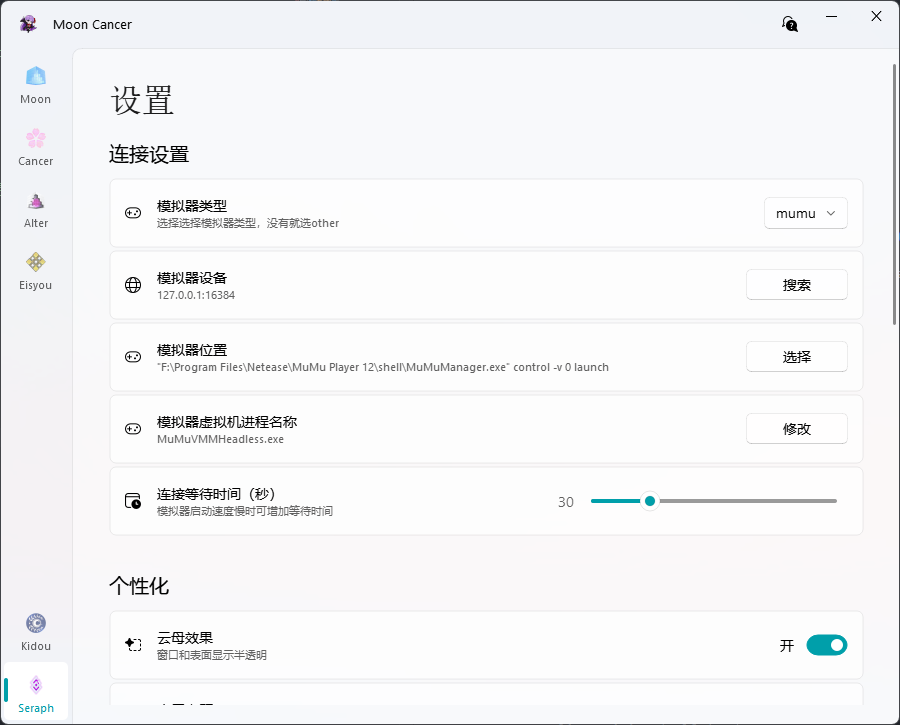
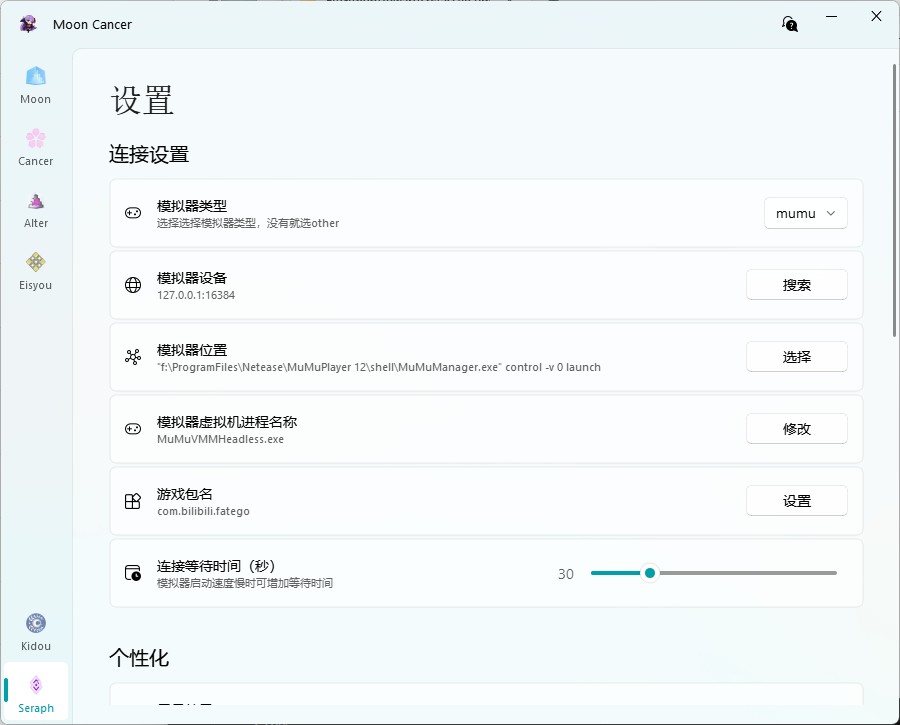
v2.2.2

diff --git a/src/content/posts/MoonCancer0.md b/src/content/posts/MoonCancer0.md
@@ -62,6 +62,8 @@ draft: false
 这里简单说一下怎么找到自己模拟器的虚拟机名称，打开模拟器，再打开任务管理，在进程里找到占用最高的模拟器相关进程(这里以mumu为例)，右键打开文件所在的位置，就可以直到程序，复制名称就行了，要包括.exe。
 或者直接问AI一般也能得到一个比较准确的答案，可以参考着找一下，就问 **XX模拟器的虚拟机进程名称是什么**
 ![taskmanager](../../assets/images/mooncaner/taskmanager.png)
+- 游戏包名默认是B服，其他客户端要修改，设置好连接参数后，打开模拟器后能自动搜索，搜索失败就自己填了
+- 连接等待时间，如果自动启动模拟器时，模拟器启动时间过长导致没连上，可以增加等待时间
 - 剩下的设置没啥好讲的了，自己看着选
 
 ## 游戏内设置

diff --git a/src/content/posts/MoonCancer1.md b/src/content/posts/MoonCancer1.md
@@ -56,8 +56,7 @@ draft: false
 - **助战礼装** 按需设置即可，活动礼装默认选择第一个，把助战筛选设置好就行了
 - **活动点限制** 设置活动点限制，超过就停止，不多刷浪费，不限制时设为0，没有活动点的情况不触发
 - **抽每日友情池** 开启会在日常任务打白纸化之前先抽取每日免费友情池
-- **白纸化任务** 选择每日刷的本，按需选取
-- **连接等待时间** 如果自动启动模拟器时，模拟器启动时间过长导致没连上，可以增加等待时间
+- **白纸化任务** 选择每日刷的本，按需选取，但要注意是否已经开放
 
 ## 日志窗口
 出现问题时可简单用查看情况

diff --git a/src/content/posts/MoonCancer.md b/src/content/posts/MoonCancer.md
@@ -13,6 +13,11 @@ draft: false
 [Cancer界面说明](../mooncancer2)<br>
 [Alter界面说明](../mooncancer3)<br>
 [Eisyou界面说明](../mooncancer4)<br>
+
+## 2025年9月18日v2.2.2
+1.优化重新启动游戏和部分脚本逻辑<br>
+2.优化自动扫描，新增搜索包名<br>
+3.新增包名设置，渠道服和其他客户端可以修改后使用<br>
 ## 2025年9月18日v2.2.1
 1.优化模拟器连接<br>
 2.优化过主线<br>
